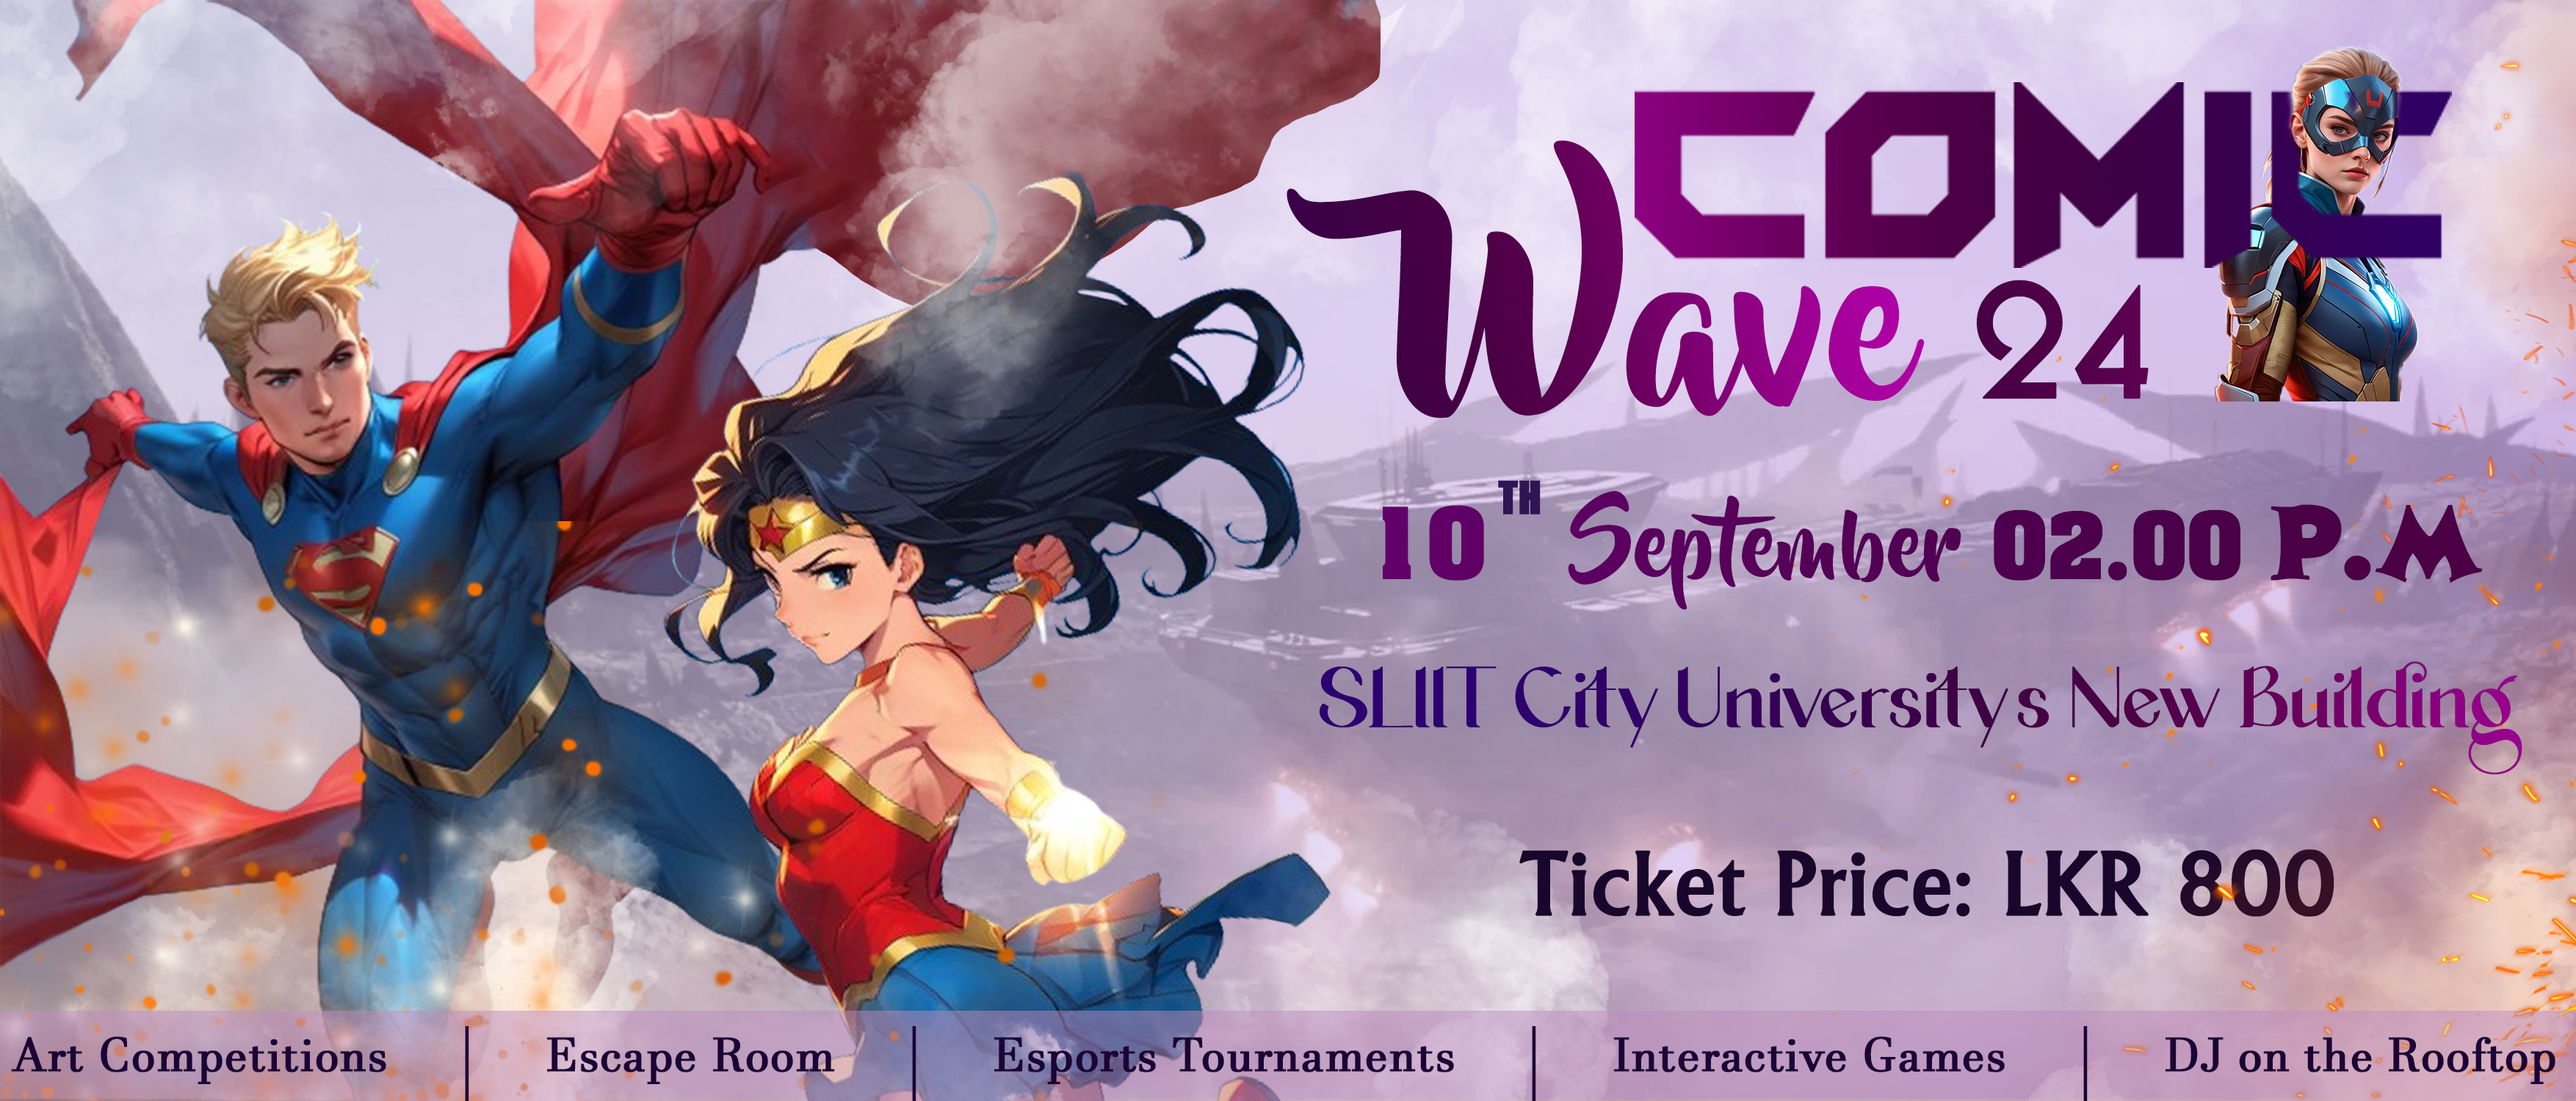
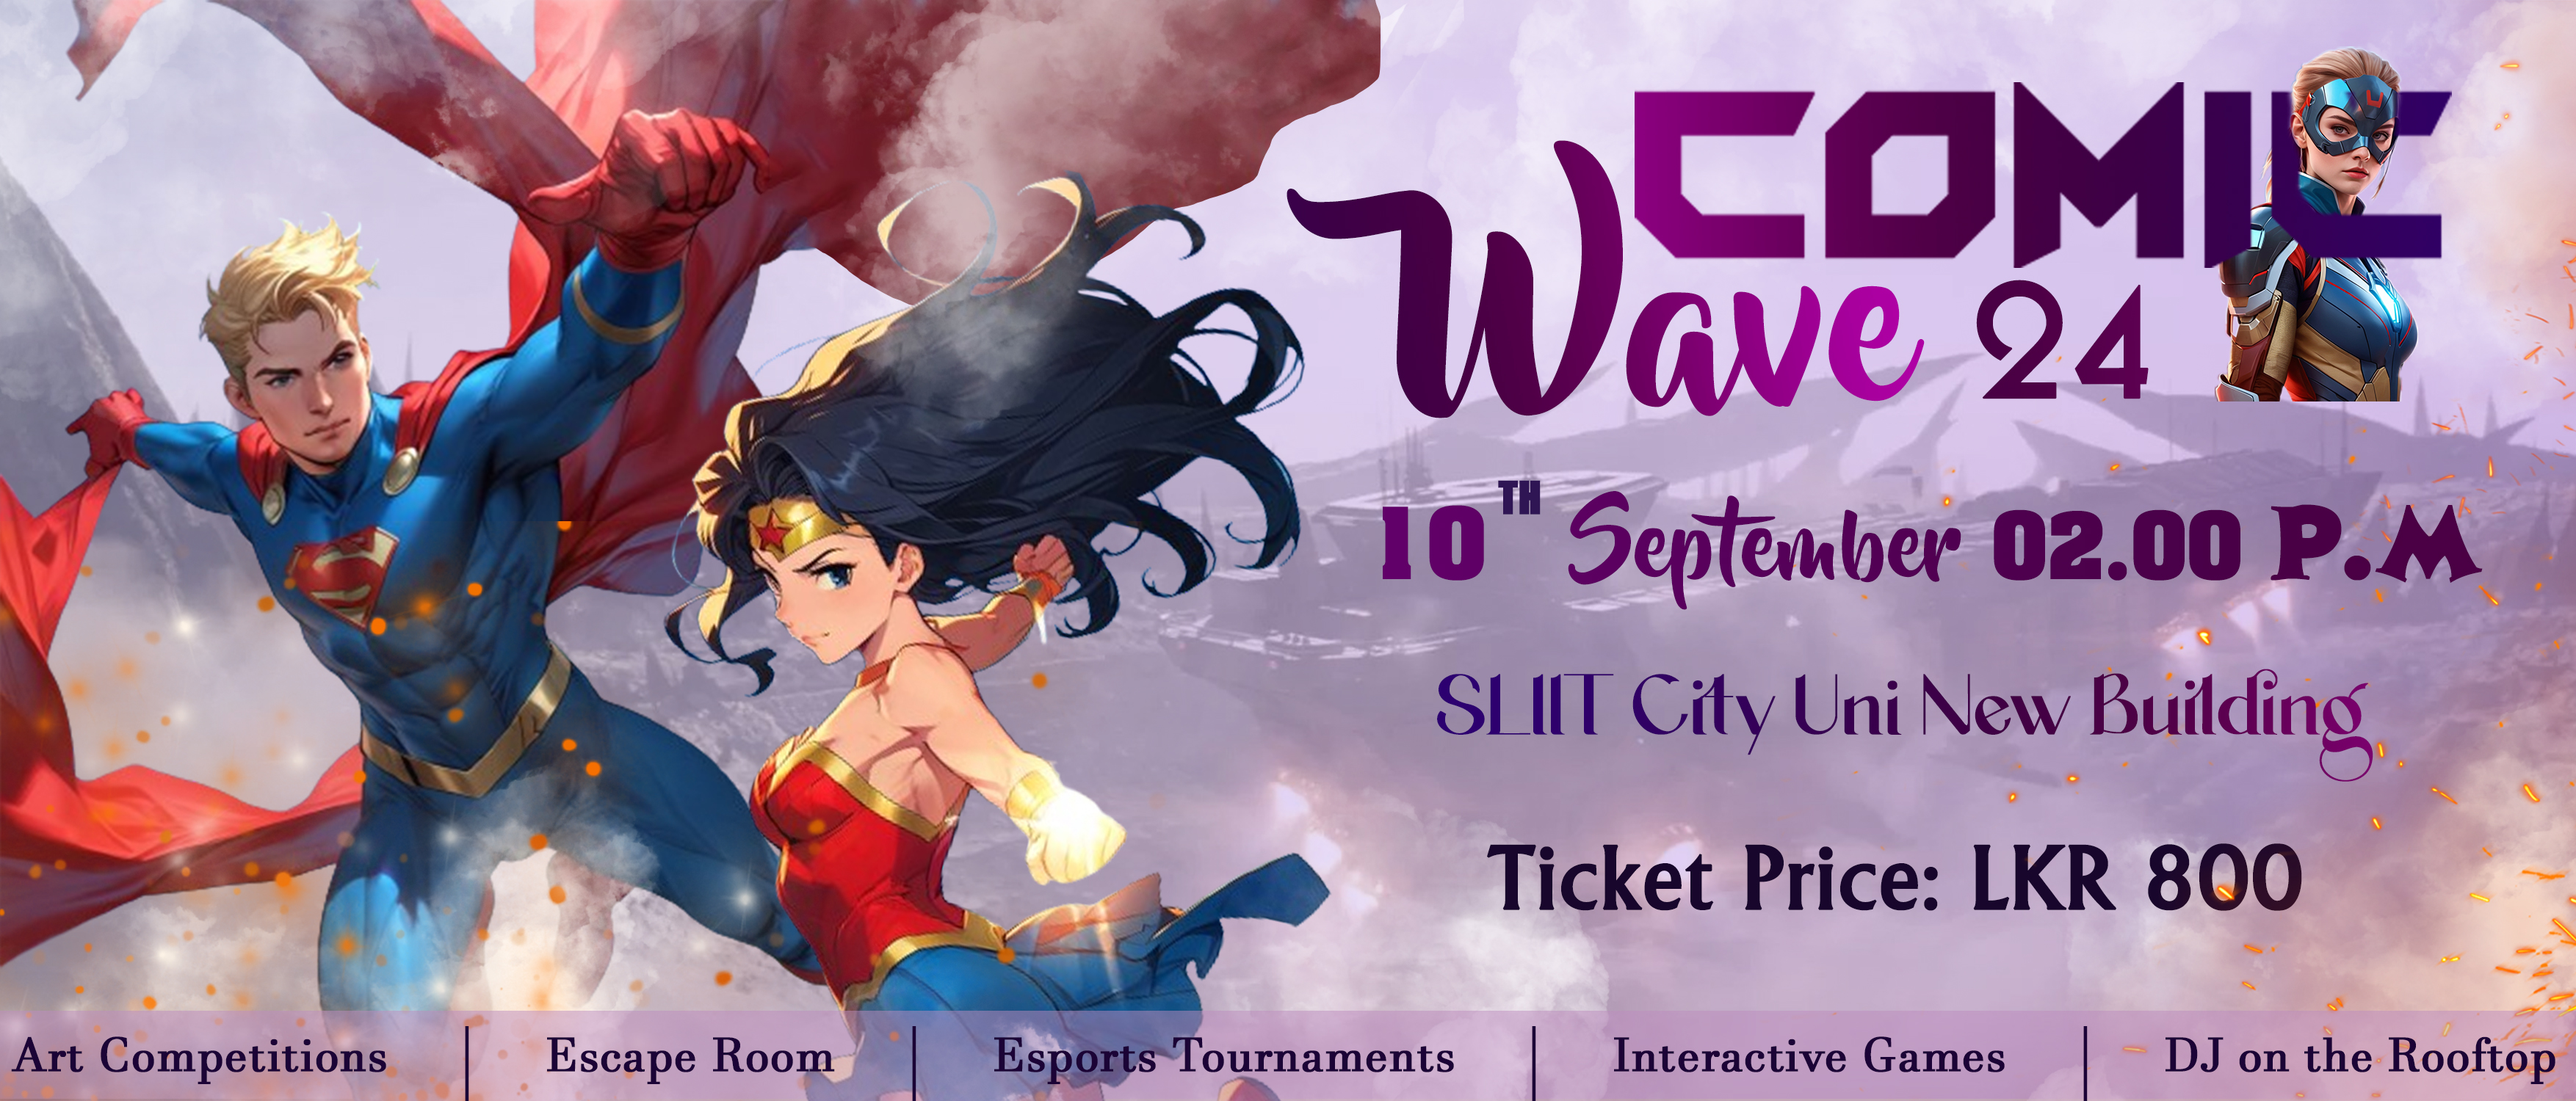
Title and ticket changed

Changed region(s): [[0.4971, 0.6133, 0.9943, 0.7053], [0.5593, 0.7667, 0.9322, 0.828]]

diff --git a/app/layout.tsx b/app/layout.tsx
@@ -9,8 +9,8 @@ import "./globals.css";
 const inter = Inter({ subsets: ["latin"] });
 
 export const metadata: Metadata = {
-  title: "Create Next App",
-  description: "Generated by create next app",
+  title: "ComicWave 24",
+  description: "Official site for the ComicWave 24",
 };
 
 export default function RootLayout({
